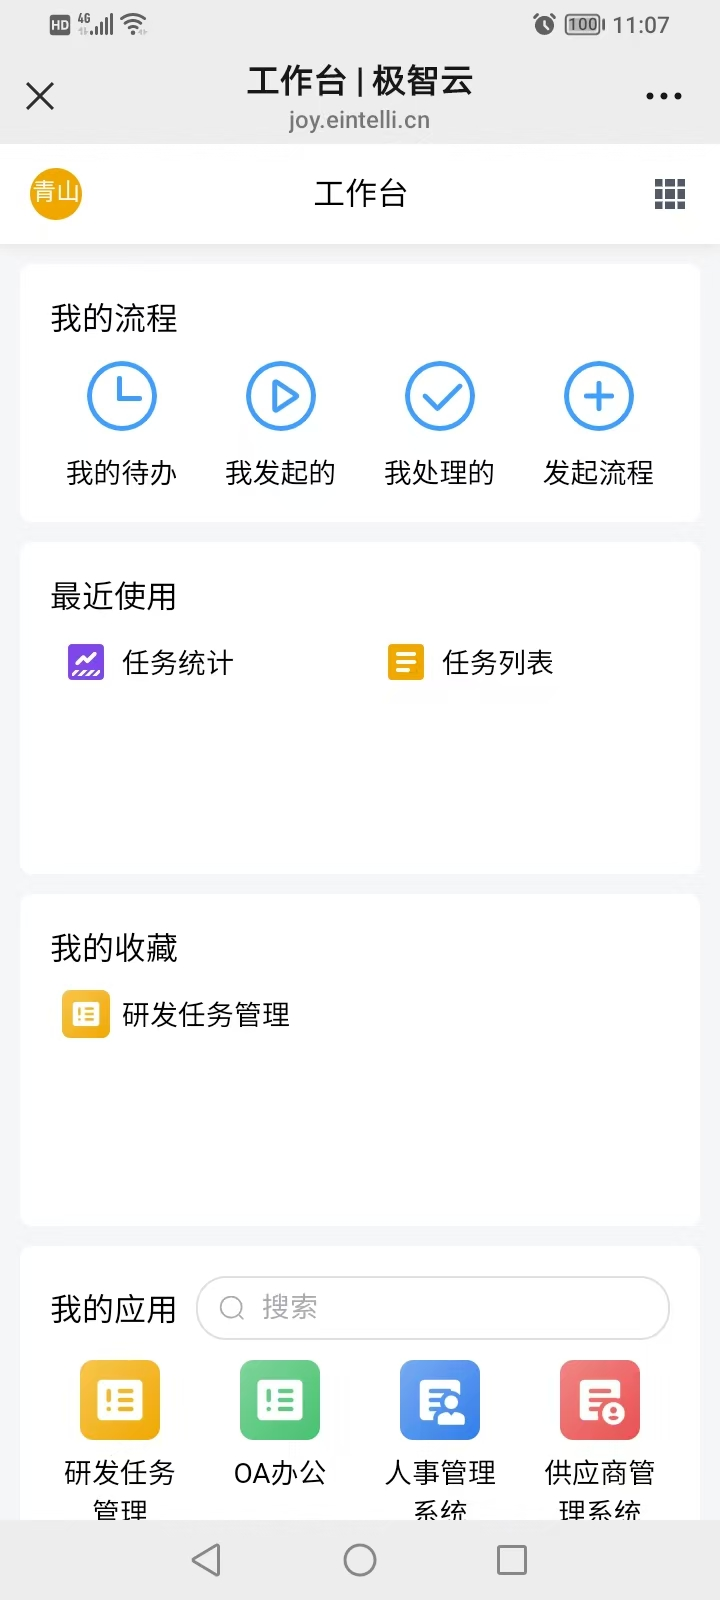
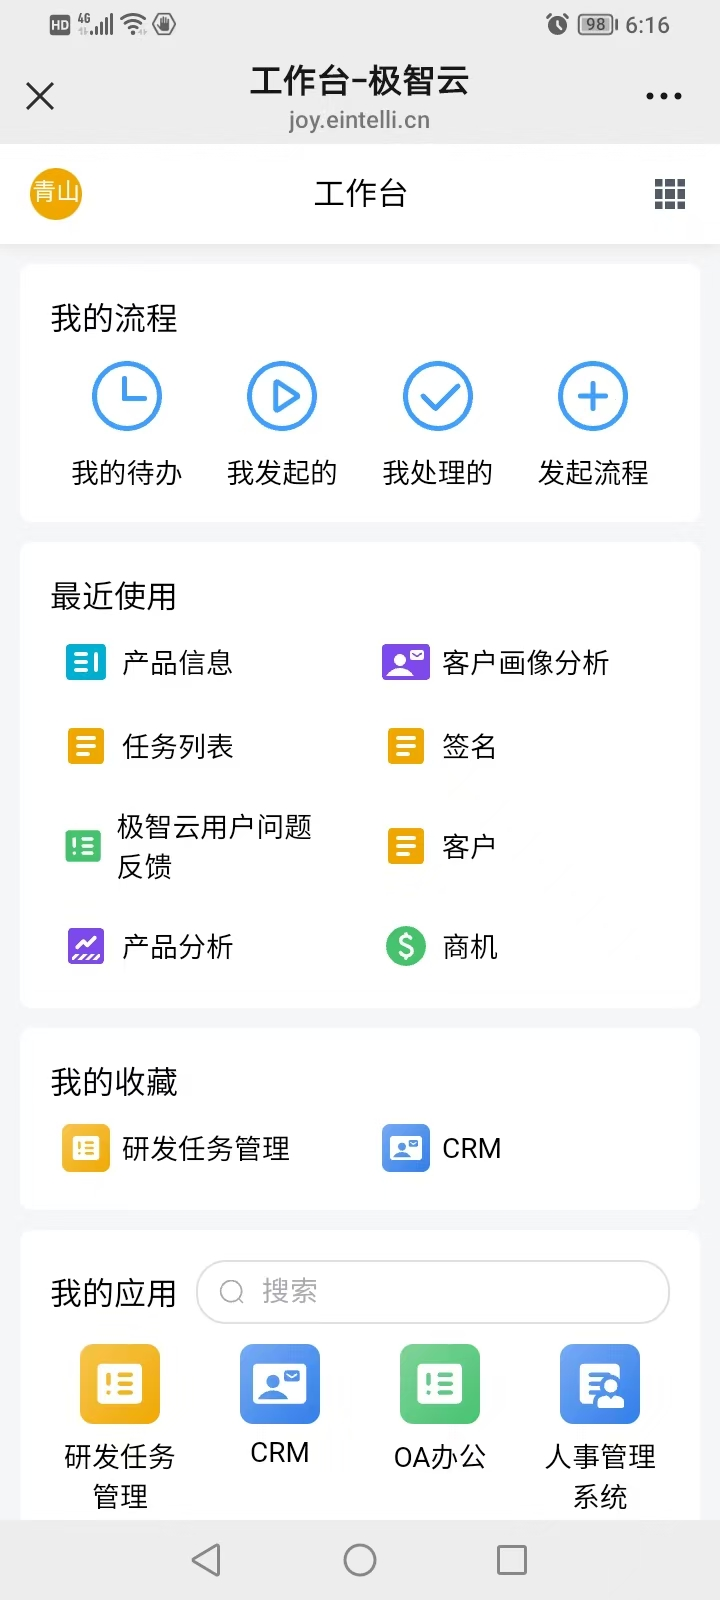
零代码扫码登录截图更换

diff --git a/zerocode/index.md b/zerocode/index.md
@@ -49,9 +49,10 @@ features:
 ---
 
 ## 登录
-<a href="https://joy.eintelli.cn/weixin-login" target="_blank">微信登录</a>
+<a href="https://joy.eintelli.cn/weixin-login" target="_blank">微信扫码登录</a>
 <img src="./image/08-微信登录.png" class="pc-img"/>
-账号登录
+
+<a href="https://joy.eintelli.cn/login" target="_blank">账号登录</a>
 <img src="./image/08-账号登录.png" class="pc-img"/>
 
 ## 工作台